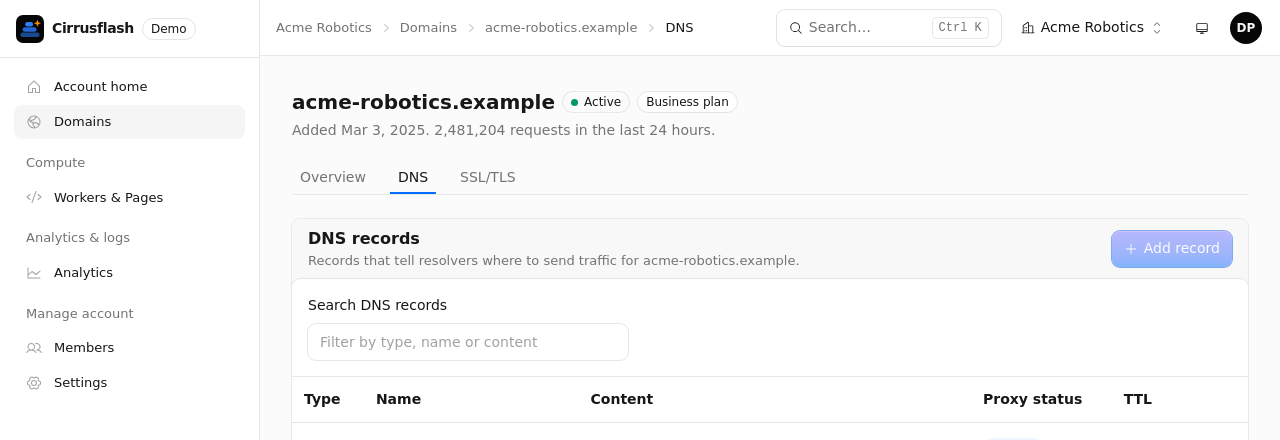
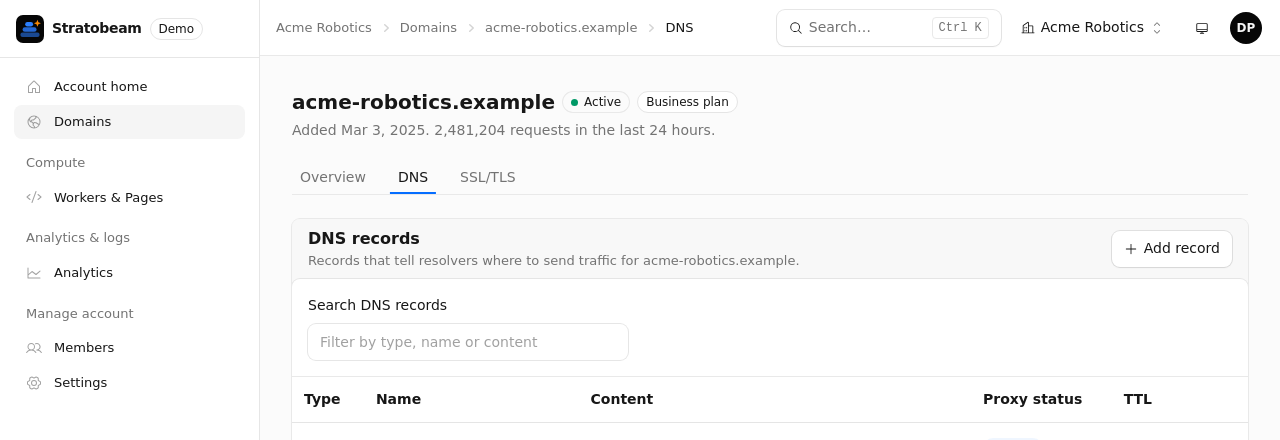
New screenshots from Stratobeam, and the comment mock in the current format

Changed region(s): [[0.8438, 0.5023, 0.9688, 0.6205], [0.0312, 0.0295, 0.1562, 0.0886]]

diff --git a/public/index.html b/public/index.html
@@ -40,14 +40,14 @@
       </div>
 
       <figure class="exhibit hero-exhibit">
-        <figcaption><span class="tag">Exhibit A</span> A pull request disabled the Add record button on a DNS page. Exhibit found the page from the diff and captured it on both versions.</figcaption>
+        <figcaption><span class="tag">Exhibit A</span> A pull request changed the Add record button on a DNS page from primary to secondary. Exhibit found the page from the diff and captured it on both versions.</figcaption>
         <div class="pair">
           <figure>
-            <img src="evidence/hero-base.png" width="1280" height="440" alt="Before: the DNS records card with a blue Add record button.">
+            <img src="evidence/hero-base.png" width="1280" height="440" alt="Before: the Stratobeam DNS page, with a blue Add record button on the DNS records card.">
             <figcaption>Before</figcaption>
           </figure>
           <figure>
-            <img src="evidence/hero-head.png" width="1280" height="440" alt="After: the same card with the Add record button greyed out.">
+            <img src="evidence/hero-head.png" width="1280" height="440" alt="After: the same page, with a white, secondary Add record button.">
             <figcaption>After</figcaption>
           </figure>
         </div>
@@ -57,27 +57,25 @@
     <section id="evidence" class="wrap section" aria-labelledby="evidence-title">
       <p class="docket">The record</p>
       <h2 id="evidence-title">What a reviewer gets on the pull request</h2>
-      <p class="section-lede">One comment, updated as the run goes. Each page the change reaches, with a close-up of the changed element and the full page folded away. Pages where nothing visible changed are folded too, so the comment shows what matters.</p>
+      <p class="section-lede">One comment, updated as the run goes: the verdict, only the checks that need a look, and each changed element before and after. Everything else is folded away, so the comment shows what matters.</p>
 
       <figure class="exhibit">
-        <figcaption><span class="tag">Exhibit B</span> The comment on a demo pull request that makes the buttons in a shared card smaller, shortened.</figcaption>
-        <div class="comment" role="img" aria-label="A pull request comment: the DNS records page with a visible change of 74 percent, close-ups of the Add record button before and after in light and dark mode, then folded sections for the full page, a page with no visible change, the intent and the steps.">
+        <figcaption><span class="tag">Exhibit B</span> The comment on a demo pull request that makes the DNS card's Add record button secondary.</figcaption>
+        <div class="comment" role="img" aria-label="A pull request comment: Needs a human, 1 page changed, a design-system warning for 1 Kumo change, the Add record button before and after with the words Primary to secondary, then folded sections for the page and for how Exhibit checked it.">
           <div class="comment-head"><span class="avatar" aria-hidden="true"></span><b>exhibit</b> <span class="bot">bot</span> <span class="muted">commented</span></div>
           <div class="comment-body">
-            <p><code>/domains/acme-robotics.example/dns</code> · <b>visible change 74%</b> · <code>DomainDns.tsx</code> passes <code>actions</code> to the changed <code>Card</code>, so its button gets the new size.</p>
-            <p class="sub">Close-up: the "Add record" button in "DNS records"</p>
+            <p class="verdict"><b>🧑 Needs a human</b></p>
+            <p>1 page changed</p>
+            <p>⚠ <b>Design system</b><br>1 Kumo change</p>
+            <p><b>Primary to secondary</b> · <code>&lt;Button variant="secondary"&gt;</code> · <code>DomainDns.tsx:44</code></p>
             <table class="shots">
-              <colgroup><col class="label"><col><col></colgroup>
-              <thead><tr><th></th><th>Before</th><th>After</th></tr></thead>
+              <thead><tr><th>Before</th><th>After</th></tr></thead>
               <tbody>
-                <tr><th>Light</th><td><img src="evidence/closeup-light-base.png" alt="" width="360" height="160" loading="lazy"></td><td><img src="evidence/closeup-light-head.png" alt="" width="360" height="160" loading="lazy"></td></tr>
-                <tr><th>Dark</th><td><img src="evidence/closeup-dark-base.png" alt="" width="360" height="160" loading="lazy"></td><td><img src="evidence/closeup-dark-head.png" alt="" width="360" height="160" loading="lazy"></td></tr>
+                <tr><td><img src="evidence/closeup-light-base.png" alt="" width="360" height="160" loading="lazy"></td><td><img src="evidence/closeup-light-head.png" alt="" width="360" height="160" loading="lazy"></td></tr>
               </tbody>
             </table>
-            <p class="fold">▸ Full page</p>
-            <p class="fold">▸ Checked, no visible change (1): <code>/</code></p>
-            <p><b>Intent:</b> Make buttons inside Card action areas smaller.</p>
-            <p class="fold">▸ Steps (9 of 9 done)</p>
+            <p class="fold">▸ The pages (1): <code>/domains/acme-robotics.example/dns</code></p>
+            <p class="fold">▸ How Exhibit checked this</p>
           </div>
         </div>
       </figure>

diff --git a/public/styles.css b/public/styles.css
@@ -116,6 +116,7 @@ nav .nav-cta { color: var(--ink); border: 1px solid var(--rule-strong); }
 .bot { font: 0.7rem var(--mono); border: 1px solid var(--rule-strong); border-radius: 99px; padding: 1px 6px; color: var(--ink-soft); }
 .comment-body { padding: 16px 18px 6px; }
 .comment-body h4 { font: 600 1rem var(--sans); margin: 18px 0 6px; }
+.comment .verdict { font-size: 1.15em; margin-bottom: 4px; }
 .shots { width: 100%; border-collapse: collapse; margin-bottom: 18px; table-layout: fixed; }
 .shots th, .shots td { padding: 6px; border: 1px solid var(--rule); vertical-align: middle; }
 .shots thead th { font-weight: 600; text-align: left; }
